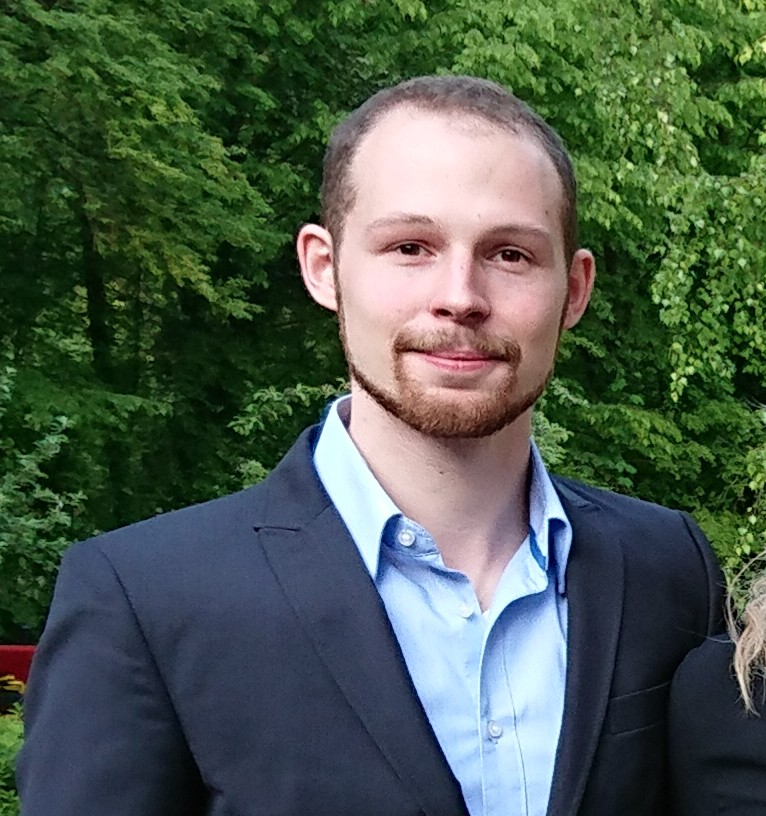
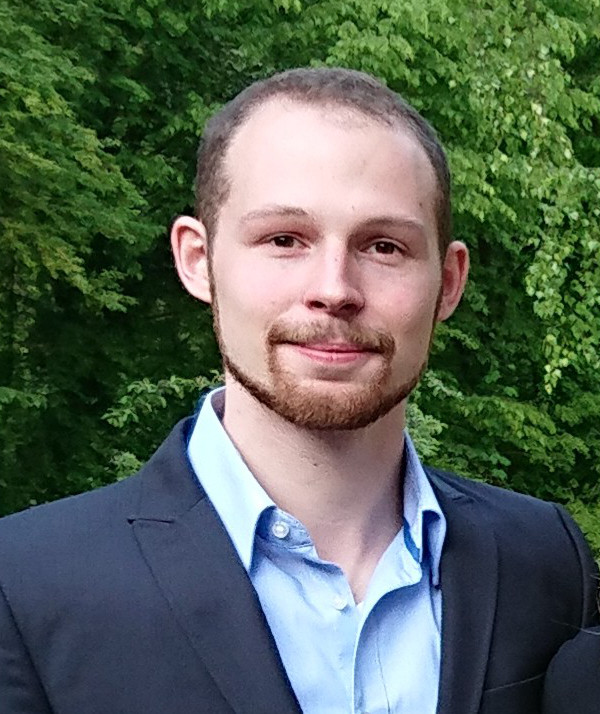
add video

diff --git a/docs/index.html b/docs/index.html
@@ -168,6 +168,10 @@
 		<div class="w-full text-center">
 			<button onclick="location.href='https://iota-team-fzi.github.io/Trusted_Tangle_ID/specification.pdf';" id="navAction" class="mx-auto lg:mx-0 hover:underline bg-white text-white font-bold rounded-full mt-4 lg:mt-0 py-4 px-8 shadow no-gradient">Specification</button>
 		</div>
+		<div class="text-center p-12">
+			<iframe class="w-full p-12" src="https://www.youtube.com/embed/FCxnBU6VuHM" style="display: inline; height: 45vw;" allowfullscreen="allowfullscreen"></iframe>
+		</div>
+		
 	</div>
 </section>
 		
@@ -188,7 +192,7 @@
 			<div class="flex-1 bg-white rounded-t rounded-b overflow-hidden shadow">
 
 					<div class="w-full text-center">
-						<img class="p-6" src="team/person.jpg"/>
+						<img class="p-6" src="team/luecking.jpg"/>
 					</div>
 
 					<div class="w-full font-bold text-xl text-gray-800 px-6">Dipl.-Ing. Markus Lücking</div>
